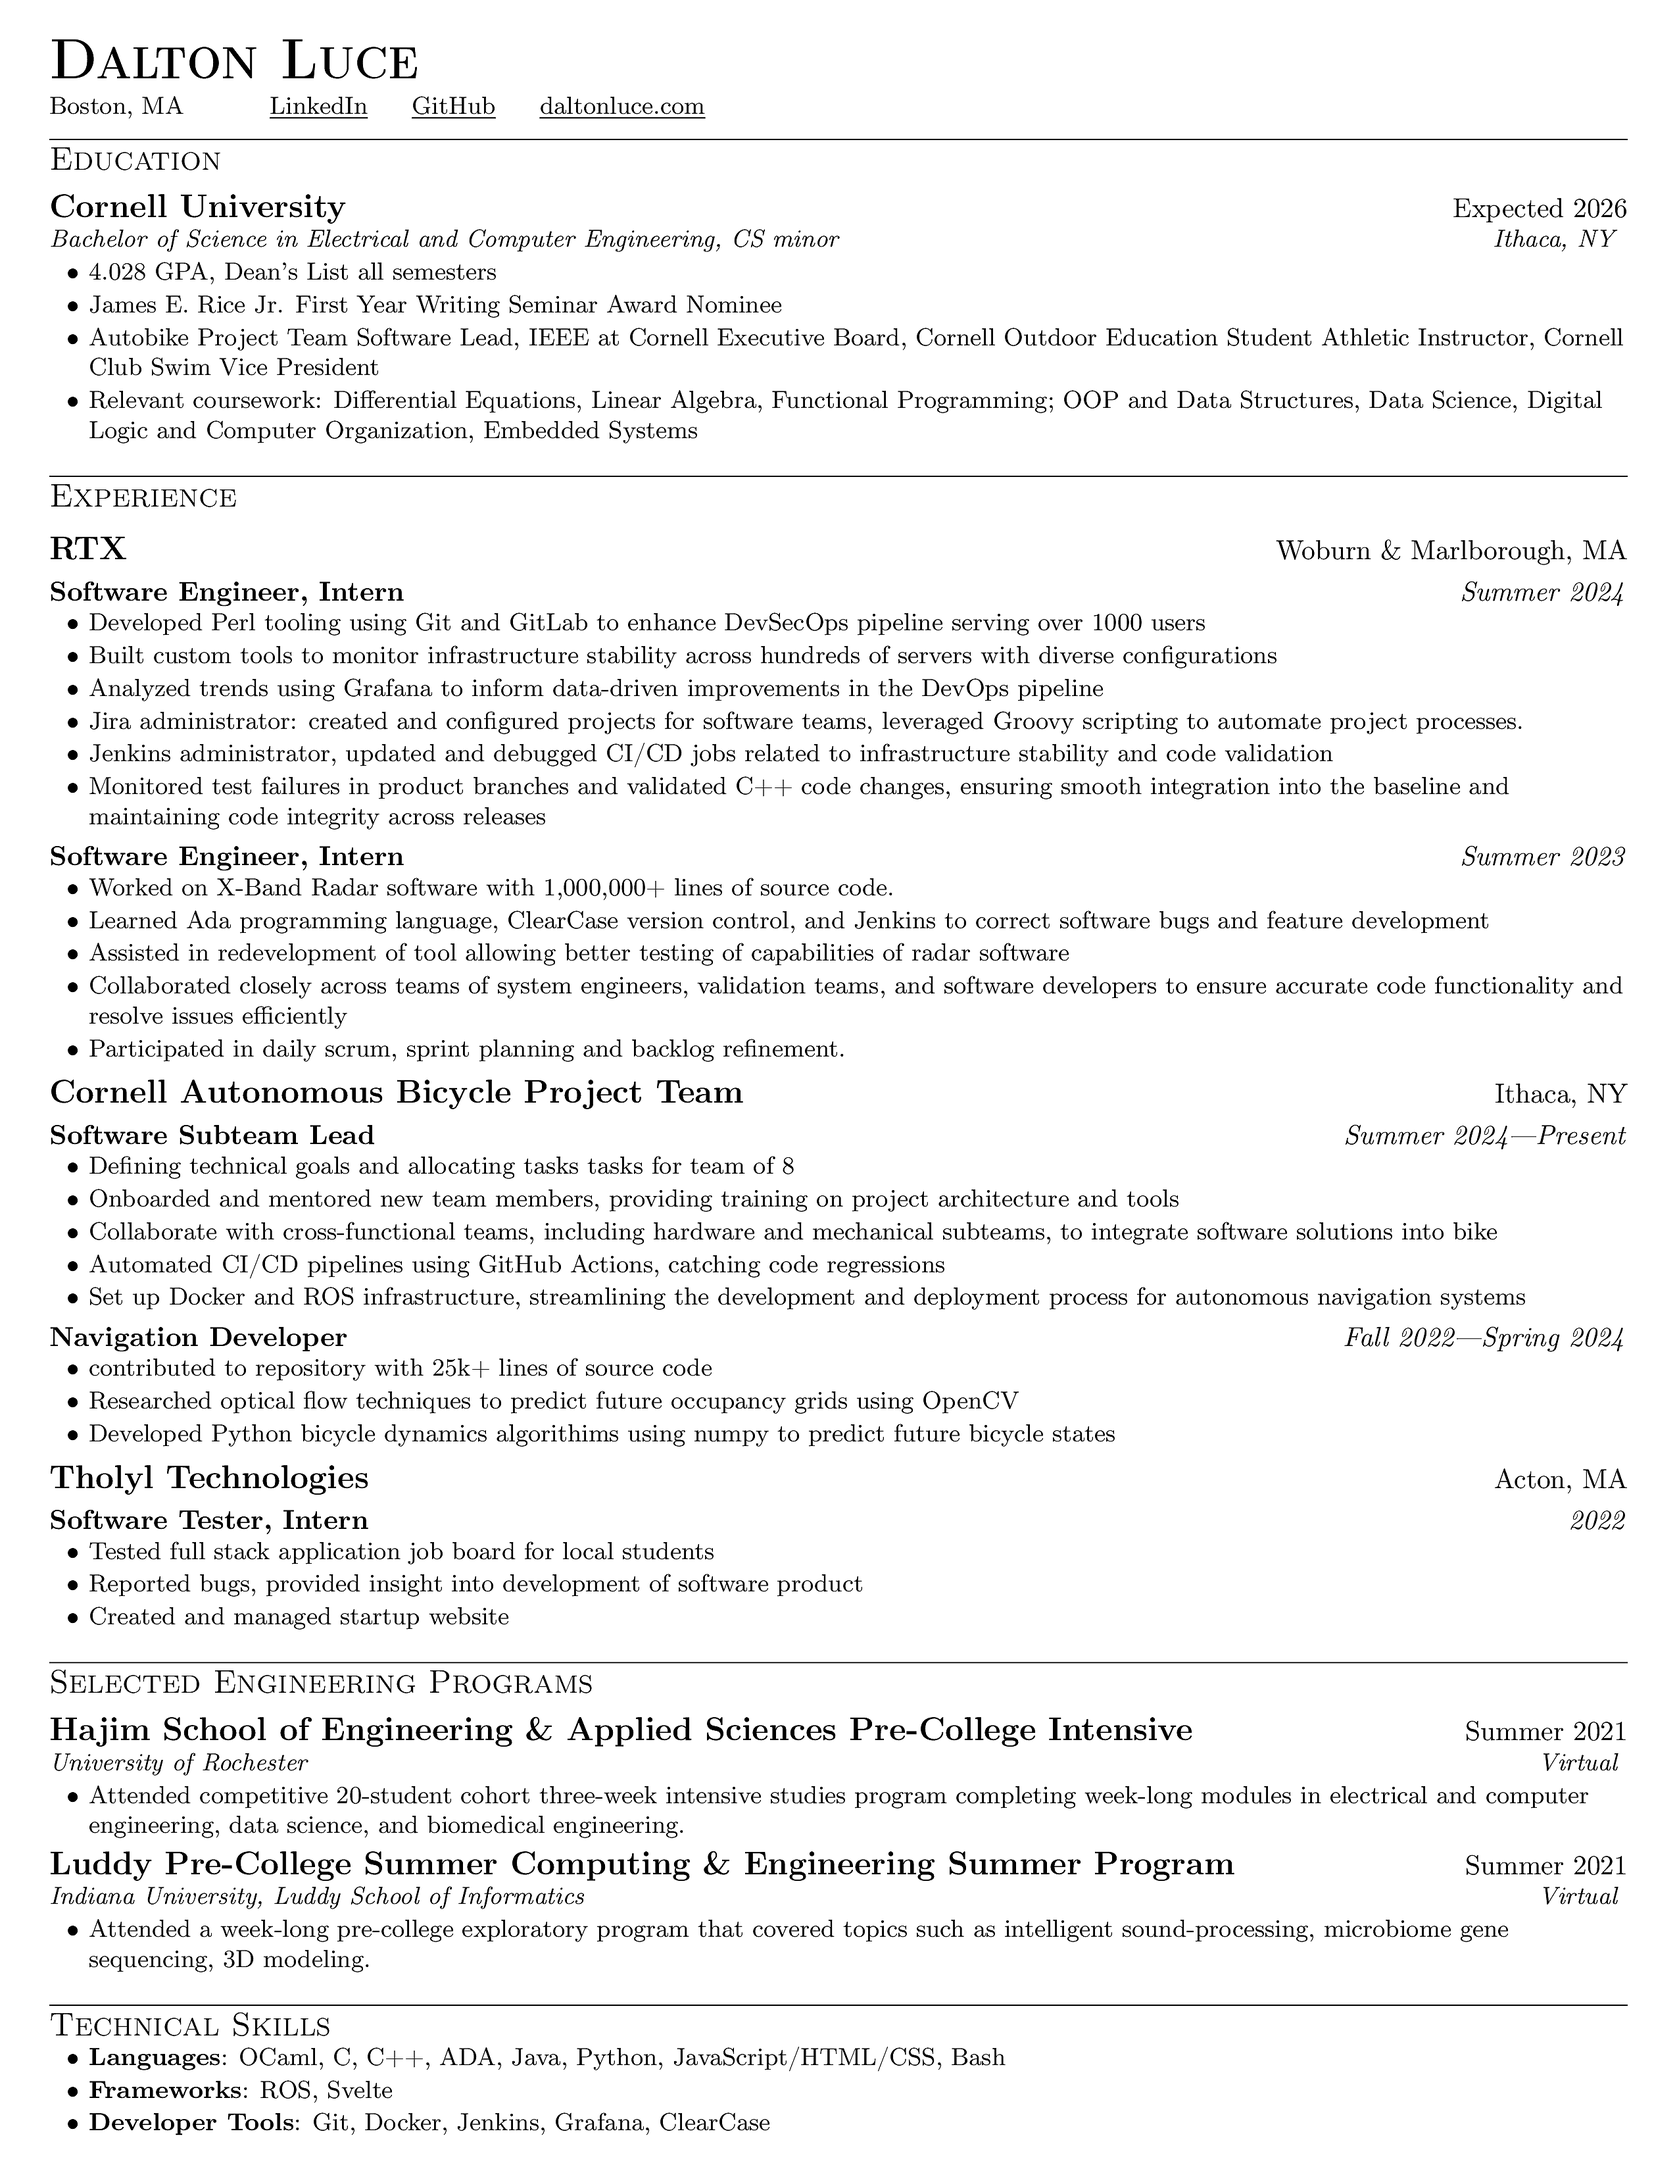
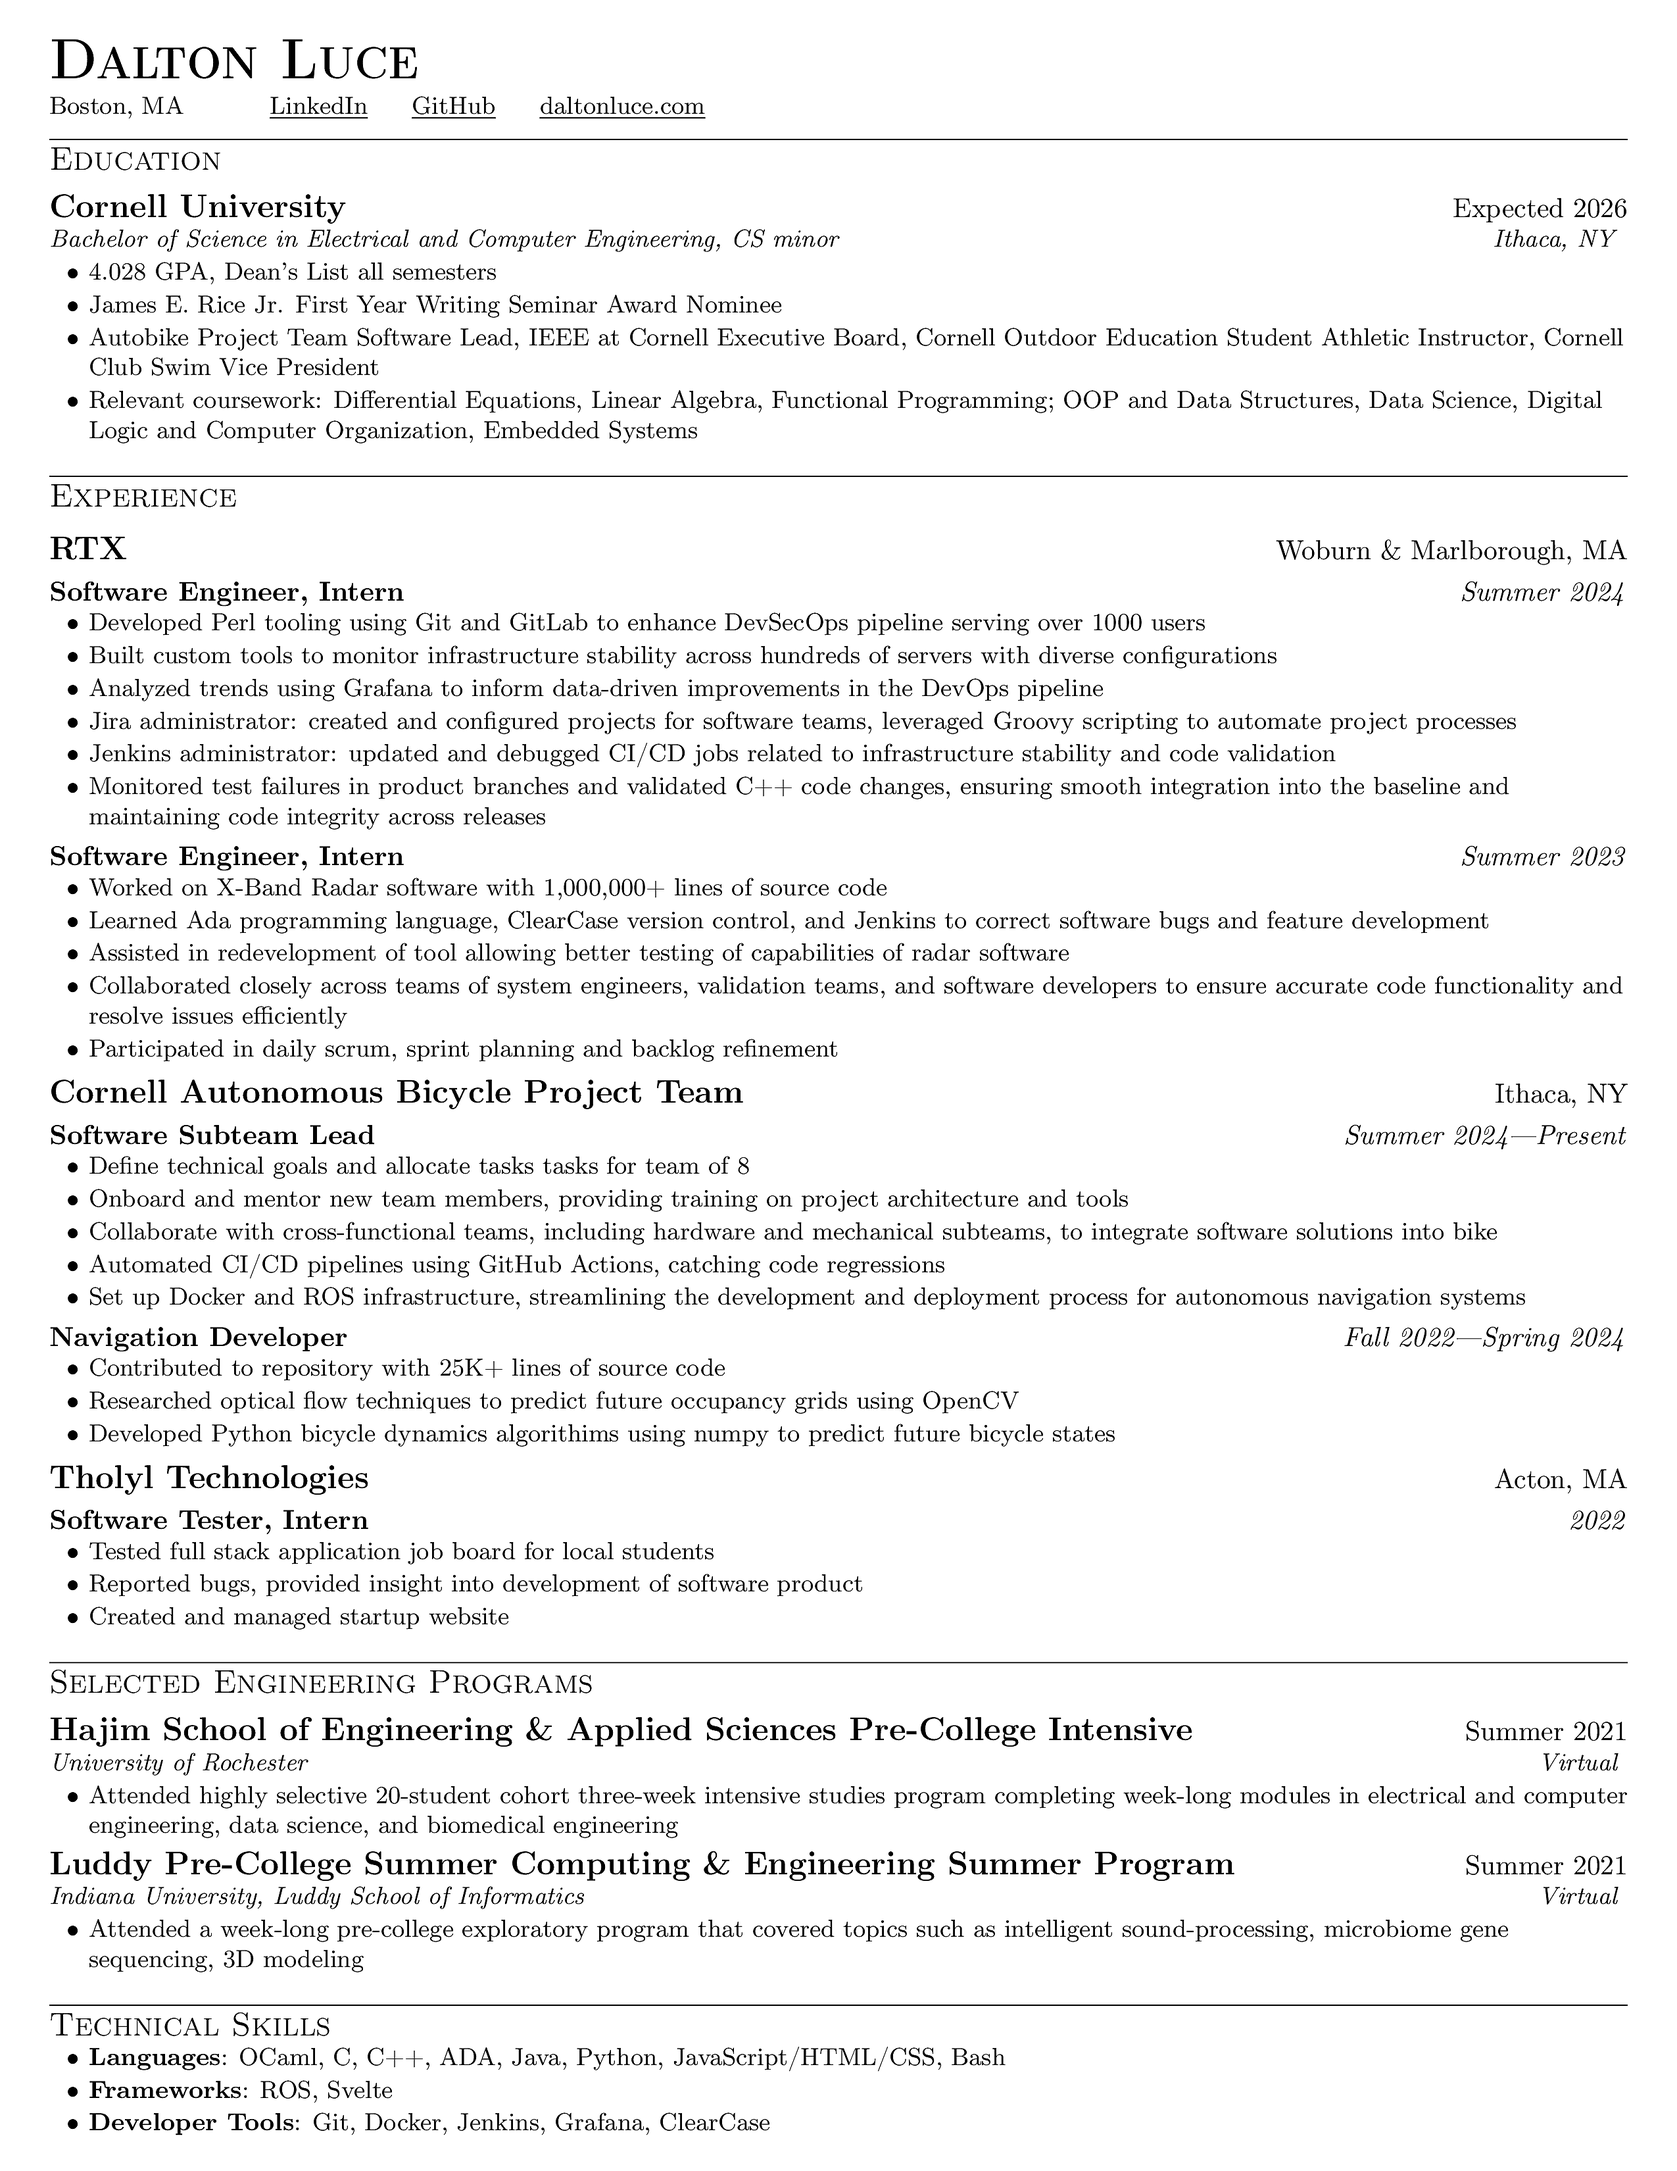
remove periods and improve consistency

diff --git a/cv.tex b/cv.tex
@@ -171,18 +171,18 @@
         \item Developed Perl tooling using Git and GitLab to enhance DevSecOps pipeline serving over 1000 users
         \item Built custom tools to monitor infrastructure stability across hundreds of servers with diverse configurations
         \item Analyzed trends using Grafana to inform data-driven improvements in the DevOps pipeline
-        \item Jira administrator: created and configured projects for software teams, leveraged Groovy scripting to automate project processes.
-        \item Jenkins administrator, updated and debugged CI/CD jobs related to infrastructure stability and code validation
+        \item Jira administrator: created and configured projects for software teams, leveraged Groovy scripting to automate project processes
+        \item Jenkins administrator: updated and debugged CI/CD jobs related to infrastructure stability and code validation
         \item Monitored test failures in product branches and validated C++ code changes, ensuring smooth integration into the baseline and maintaining code integrity across releases
     \itemsEnd{}
 
     \position{Software Engineer, Intern}{Summer 2023}
     \itemsBegin{}
-        \item Worked on X-Band Radar software with 1,000,000+ lines of source code.
+        \item Worked on X-Band Radar software with 1,000,000+ lines of source code
         \item Learned Ada programming language, ClearCase version control, and Jenkins to correct software bugs and feature development
         \item Assisted in redevelopment of tool allowing better testing of capabilities of radar software
         \item Collaborated closely across teams of system engineers, validation teams, and software developers to ensure accurate code functionality and resolve issues efficiently
-        \item Participated in daily scrum, sprint planning and backlog refinement.
+        \item Participated in daily scrum, sprint planning and backlog refinement
     \itemsEnd{}
 
     %--------Autobike--------
@@ -190,8 +190,8 @@
 
     \position{Software Subteam Lead}{Summer 2024---Present}
     \itemsBegin{}
-        \item Defining technical goals and allocating tasks tasks for team of 8
-        \item Onboarded and mentored new team members, providing training on project architecture and tools
+        \item Define technical goals and allocate tasks tasks for team of 8
+        \item Onboard and mentor new team members, providing training on project architecture and tools
         \item Collaborate with cross-functional teams, including hardware and mechanical subteams, to integrate software solutions into bike
         \item Automated CI/CD pipelines using GitHub Actions, catching code regressions
         \item Set up Docker and ROS infrastructure, streamlining the development and deployment process for autonomous navigation systems
@@ -199,7 +199,7 @@
 
     \position{Navigation Developer}{Fall 2022---Spring 2024}
     \itemsBegin{}
-        \item contributed to repository with 25k+ lines of source code
+        \item Contributed to repository with 25K+ lines of source code
         \item Researched optical flow techniques to predict future occupancy grids using OpenCV
         \item Developed Python bicycle dynamics algorithims using numpy to predict future bicycle states
     \itemsEnd{}
@@ -226,7 +226,7 @@
         {Virtual}
 
     \itemsBegin{}
-        \item Attended competitive 20-student cohort three-week intensive studies program completing week-long modules in electrical and computer engineering, data science, and biomedical engineering.
+        \item Attended highly selective 20-student cohort three-week intensive studies program completing week-long modules in electrical and computer engineering, data science, and biomedical engineering
     \itemsEnd{}
 
     %--------Luddy--------
@@ -236,7 +236,7 @@
         {Virtual}
 
     \itemsBegin{}
-        \item Attended a week-long pre-college exploratory program that covered topics such as intelligent sound-processing, microbiome gene sequencing, 3D modeling.
+        \item Attended a week-long pre-college exploratory program that covered topics such as intelligent sound-processing, microbiome gene sequencing, 3D modeling
     \itemsEnd{}
 
 % TECHNICAL SKILLS -------------------------------------------------------------
